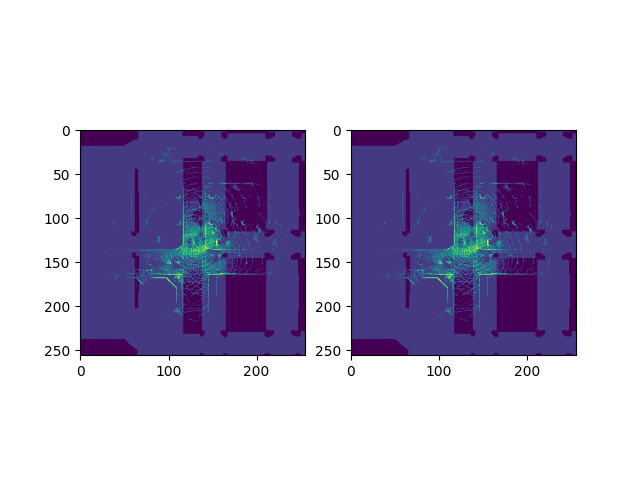
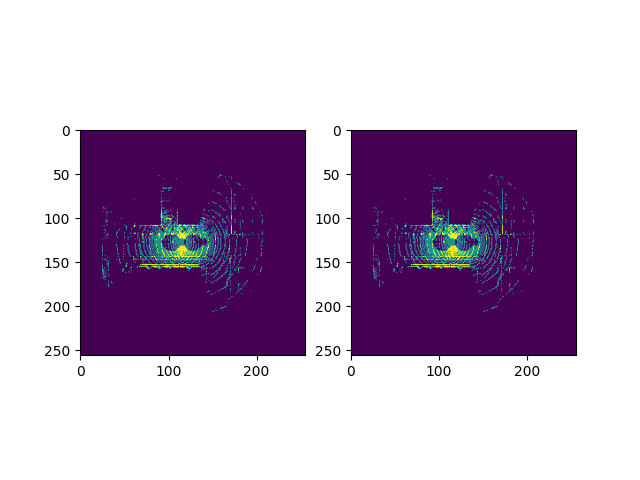
dataloader debug finished

Changed region(s): [[0.5312, 0.25, 0.9062, 0.75], [0.125, 0.25, 0.5, 0.75]]

diff --git a/CNN/loss.py b/CNN/loss.py
@@ -14,7 +14,7 @@ class PointsLoss(nn.Module):
         super().__init__()
         return
 
-    def forward(self, added_points, original_points, boxes):
+    def forward(self, added_points, original_points, boxes, ego_loc):
         """
         :param added_points: prdicted points
         :param original_point:
@@ -56,8 +56,8 @@ class PointsLoss(nn.Module):
             o[1] = torch.cat((o[1], torch.zeros(len(o[0]) - len(o[1]), 2).cuda()), dim=0)
         else:
             o[0] = torch.cat((o[0], torch.zeros(len(o[1]) - len(o[0]), 2).cuda()), dim=0)
-        predicted_points_idx = torch.stack(p, 0)
-        original_points_idx = torch.stack(o, 0)
+        predicted_points_idx = torch.stack(p, 0)-128
+        original_points_idx = torch.stack(o, 0)-128
         # set z = 1
         y1 = torch.ones(2, predicted_points_idx.shape[1], 1).cuda()
         predicted_points_idx = torch.cat((predicted_points_idx, y1), dim=2)*0.8
@@ -65,32 +65,30 @@ class PointsLoss(nn.Module):
         original_points_idx = torch.cat((original_points_idx, y2), dim=2)*0.8
 
         # =============================vis============================================
-        for i in range(batch_size):
-            ax = plt.figure(figsize=(8, 8)).add_subplot(1, 1, 1)
-            ax.set_aspect('equal', 'box')
-            points = predicted_points_idx.cpu()
-            ax.plot(points[i,:, 0], points[i,:, 1], 'b.', markersize=0.3)
-            ax = draw_box_plt(boxes[i,:,:], ax, color='green')
-            # ax = draw_box_plt(pred_boxes[0], ax, color='red')
-            plt.xlabel('x')
-            plt.ylabel('y')
-            plt.savefig('temp.png')
-            plt.close()
+        ax = plt.figure(figsize=(8, 8)).add_subplot(1, 1, 1)
+        points = predicted_points_idx.cpu()
+        ax.plot(points[0,:, 0], points[0,:, 1], 'b.', markersize=0.5)
+        boxes[:,:,0:2] = boxes[:,:,0:2] - ego_loc[:,None,:]
+        ax = draw_box_plt(boxes[0,:,:], ax, color='green')
+        # ax = draw_box_plt(pred_boxes[0], ax, color='red')
+        plt.xlabel('x')
+        plt.ylabel('y')
+        plt.savefig('temp.png')
+        plt.close()
         # ==============================================================================
 
-        idx_object = self.points_in_boxes_gpu(original_points_idx.float(), boxes_frame.float())
+        idx_original = self.points_in_boxes_gpu(original_points_idx.float(), boxes_frame.float())
         idx_predict = self.points_in_boxes_gpu(predicted_points_idx.float(), boxes_frame.float())
         # get points
         n_object = []
         n_predict = []
-        for i in range(20):
-            for j in range(batch_size):
-                p_idx = idx_object[j, i, :]
-                nz = torch.nonzero(p_idx)
-                n_object.append(original_points_idx[nz])
-                p_idx = idx_predict[j, i, :]
-                nz = torch.nonzero(p_idx)
-                n_predict.append(predicted_points_idx[nz])
+        for i in range(batch_size):
+            o_idx = idx_original[i, :]
+            nz1 = torch.nonzero(o_idx)
+            n_object.append(original_points_idx[nz1])
+            p_idx = idx_predict[i, :]
+            nz2 = torch.nonzero(p_idx)
+            n_predict.append(predicted_points_idx[nz2])
         # in grid
         n_object_grid = torch.zeros(256, 256)
         n_predict_grid = torch.zeros(256, 256)

diff --git a/CNN/dataloader.py b/CNN/dataloader.py
@@ -134,8 +134,9 @@ class coopDataset(Dataset):
 
         # fill with zeros
         while len(grids) < 21:
-            grids = np.insert(grids, 0, values=0, axis=0)
+            grids = np.insert(grids, -1, values=0, axis=0)
         grids = np.array(grids)
+        # ====================bbox================================
         gt_boxes_all = np.loadtxt(os.path.join(self.root, 'vehicle_info', 'j' +
                                                self.file_list[index].split('_')[0] + '.csv'), delimiter=",",skiprows=1,usecols=(0, 2, 3, 4, 5, 9, 10, 11, 8)).astype(np.float)
         gt_boxes = gt_boxes_all[gt_boxes_all[:, 0] == int(self.file_list[index].split('_')[1])]
@@ -145,7 +146,7 @@ class coopDataset(Dataset):
         gt_boxes = np.squeeze(gt_boxes[gt_idxs, :]).reshape(-1, 8)
         gt_boxes = gt_boxes[:, 1:]
         while gt_boxes.shape[0] < 20:
-            gt_boxes = np.insert(gt_boxes, 0, values=0, axis=0)
+            gt_boxes = np.insert(gt_boxes, -1, values=0, axis=0)
         batch_type = {
             "points": "cpu_float",
             "gt_boxes": "gpu_float",
@@ -157,6 +158,7 @@ class coopDataset(Dataset):
             "gt_boxes": gt_boxes,
             "frame": self.file_list[index],
             "batch_types": batch_type,
+            "ego_loc": ego_loc
         }
 
     def pc2grid(self, points, ego_loc, grid_size=0.8, ceils=256):
@@ -185,6 +187,14 @@ class coopDataset(Dataset):
         inds_y = np.clip(inds[:, 1], a_min=0, a_max=map_size[1] - 1)
         view = self.map_bin[inds_x, inds_y].astype(int)
         view = view.reshape(map_view_size[0], map_view_size[1])
+        # switch x and y axis
+        for i in range(ceils-1):
+            j = i
+            while j < ceils:
+                tmp_item = view[i][j]
+                view[i][j] = view[j][i]
+                view[j][i] = tmp_item
+                j +=1
         return view
 
     def split(self):
@@ -217,6 +227,6 @@ if __name__ == '__main__':
     for data in dataloader:
         points = torch.sum(data["points"], dim=1)
         plt.imshow(points[0,:,:])
-        plt.savefig('test.png')
+        plt.savefig('test1.png')
         plt.close()
         print('===================================')

diff --git a/small_test.py b/small_test.py
@@ -2,49 +2,5 @@ import numpy as np
 import matplotlib.pyplot as plt
 import torch
 
-def draw_box_plt(boxes_dec, ax, color='red', linewidth_scale=1.0):
-    """
-    draw boxes in a given plt ax
-    :param boxes_dec: (N, 5) or (N, 7) in metric
-    :param ax:
-    :return: ax with drawn boxes
-    """
-    if not len(boxes_dec)>0:
-        return ax
-    boxes_np= boxes_dec
-    if not isinstance(boxes_np, np.ndarray):
-        boxes_np = boxes_np.cpu().detach().numpy()
-    if boxes_np.shape[-1]>5:
-        boxes_np = boxes_np[:, [0, 1, 3, 4, 6]]
-    x = boxes_np[:, 0]
-    y = -boxes_np[:, 1]
-    dx = boxes_np[:, 2]
-    dy = boxes_np[:, 3]
-
-    x1 = x - dx / 2
-    y1 = y - dy / 2
-    x2 = x + dx / 2
-    y2 = y + dy / 2
-    theta = boxes_np[:, 4:5]/180*np.pi
-
-    # bl, fl, fr, br
-    corners = np.array([[x1, y1],[x1,y2], [x2,y2], [x2, y1]]).transpose(2, 0, 1)
-    new_x = (corners[:, :, 0] - x[:, None]) * np.cos(theta) + (corners[:, :, 1]
-              - y[:, None]) * (-np.sin(theta)) + x[:, None]
-    new_y = (corners[:, :, 0] - x[:, None]) * np.sin(theta) + (corners[:, :, 1]
-              - y[:, None]) * (np.cos(theta)) + y[:, None]
-    print('theta:', theta, np.cos(theta), np.sin(theta))
-    corners = np.stack([new_x, new_y], axis=2)
-    for corner in corners:
-        ax.plot(corner[[0,1,2,3,0], 0], corner[[0,1,2,3,0], 1], color=color, linewidth=0.5*linewidth_scale)
-        # draw front line (
-        ax.plot(corner[[2, 3], 0], corner[[2, 3], 1], color=color, linewidth=2*linewidth_scale)
-    return ax
-
-gt_boxes = torch.Tensor([[0,0,0,4,2,0,-180]])
-ax = plt.figure(figsize=(8, 8)).add_subplot(1, 1, 1)
-ax.set_aspect('equal', 'box')
-ax = draw_box_plt(gt_boxes, ax, color='red')
-plt.xlabel('x')
-plt.ylabel('y')
-plt.savefig('test1.png')
+a = np.load('/media/ExtHDD01/mastudent/BAI/HybridV50CAV20/vehicle_info/ego_ids.npy', allow_pickle=True)
+print(a)

diff --git a/CNN/train_cnn.py b/CNN/train_cnn.py
@@ -38,7 +38,7 @@ for epoch in range(epoches):
         # select points
         points_fused = data_mask(output, cnn_input["points"].float().cuda())
         loss_function = PointsLoss()
-        loss = loss_function(points_fused.cuda(), cnn_input["points"].cuda(), cnn_input["gt_boxes"].cuda())
+        loss = loss_function(points_fused.cuda(), cnn_input["points"].cuda(), cnn_input["gt_boxes"].cuda(),cnn_input["ego_loc"].cuda())
         loss.requires_grad = True
         optimizer.zero_grad()
         loss.backward()
